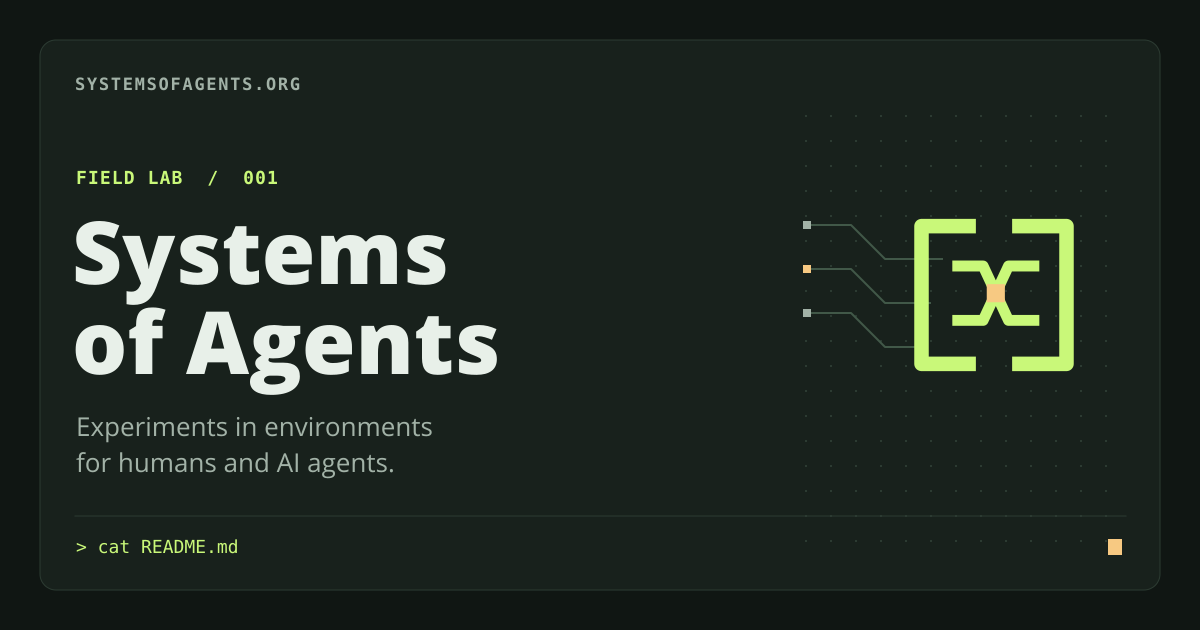
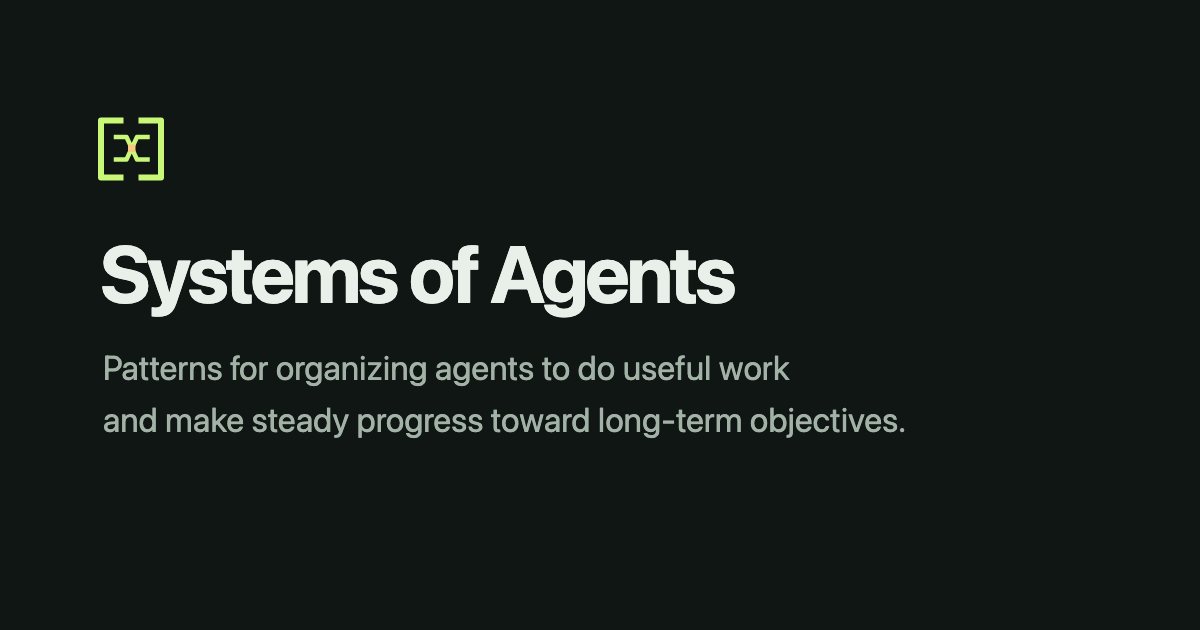
Simplify the Systems of Agents landing page

diff --git a/templates/home.html b/templates/home.html
@@ -1,30 +1,29 @@
 <!doctype html>
 <html lang="en"><head><meta charset="utf-8"><meta name="viewport" content="width=device-width,initial-scale=1">
 <title>Systems of Agents</title>
-<meta name="description" content="Systems of Agents maps out how to build systems in which humans and agents work together to accomplish increasingly complex tasks.">
-<meta name="theme-color" content="#101613"><link rel="canonical" href="https://systemsofagents.org/"><link rel="icon" type="image/svg+xml" href="/favicon.svg"><link rel="stylesheet" href="/terminal.css"><script defer src="/terminal.js"></script>
+<meta name="description" content="An exploration of the patterns we can use to organize agents to do useful work and make steady progress toward long-term objectives.">
+<meta name="theme-color" content="#101613"><link rel="canonical" href="https://systemsofagents.org/"><link rel="icon" type="image/svg+xml" href="/favicon.svg"><link rel="stylesheet" href="/site.css">
 <meta property="og:type" content="website">
 <meta property="og:site_name" content="Systems of Agents">
 <meta property="og:title" content="Systems of Agents">
-<meta property="og:description" content="Systems of Agents maps out how to build systems in which humans and agents work together to accomplish increasingly complex tasks.">
+<meta property="og:description" content="An exploration of the patterns we can use to organize agents to do useful work and make steady progress toward long-term objectives.">
 <meta property="og:url" content="https://systemsofagents.org/">
-<meta property="og:image" content="https://systemsofagents.org/brand/social/og-home.png">
+<meta property="og:image" content="https://systemsofagents.org/brand/social/og-home.png?v=2">
 <meta property="og:image:width" content="1200">
 <meta property="og:image:height" content="630">
-<meta property="og:image:alt" content="Systems of Agents: a field lab for human–agent systems, with a bracketed handoff mark.">
+<meta property="og:image:alt" content="Systems of Agents and its Handoff mark.">
 <meta name="twitter:card" content="summary_large_image">
 <meta name="twitter:title" content="Systems of Agents">
-<meta name="twitter:description" content="Systems of Agents maps out how to build systems in which humans and agents work together to accomplish increasingly complex tasks.">
-<meta name="twitter:image" content="https://systemsofagents.org/brand/social/og-home.png">
-<meta name="twitter:image:alt" content="Systems of Agents: a field lab for human–agent systems, with a bracketed handoff mark.">
+<meta name="twitter:description" content="An exploration of the patterns we can use to organize agents to do useful work and make steady progress toward long-term objectives.">
+<meta name="twitter:image" content="https://systemsofagents.org/brand/social/og-home.png?v=2">
+<meta name="twitter:image:alt" content="Systems of Agents and its Handoff mark.">
 <link rel="apple-touch-icon" href="/brand/icons/icon-180.png">
 </head>
-<body data-view="home"><a class="skip" href="#main">Skip to main content</a><main id="main" class="shell">
-<header><p class="brand"><img width="20" height="20" src="/brand/logos/mark-dark.svg" alt="">SYSTEMS OF AGENTS</p><p class="path" aria-label="Current path"><span>~/</span></p></header>
-<h1 class="sr" tabindex="-1">Systems of Agents</h1>
-<div class="file-view"><p class="file-command"><span class="prompt" aria-hidden="true">$</span> <code>cat README.md</code></p><div class="markdown">%%MARKDOWN%%</div><template id="document-source">%%MARKDOWN_RAW%%</template></div>
-<form class="command" hidden><output id="command-output" class="output" aria-live="polite"></output><div class="promptline">
-<span class="prompt" aria-hidden="true">$</span><label for="command" class="sr">Terminal command</label>
-<input id="command" type="text" placeholder="Enter a command" autocomplete="off" autocapitalize="none" spellcheck="false" enterkeyhint="go" aria-describedby="command-hint">
-</div><p id="command-hint" class="hint">Type <button type="button"><kbd>help</kbd></button> for commands.</p></form>
-</main></body></html>
+<body>
+<main class="landing">
+  <img class="mark" src="/brand/logos/mark-dark.svg" width="64" height="64" alt="">
+  <h1>Systems of Agents</h1>
+  <div class="intro">%%MARKDOWN%%</div>
+</main>
+</body>
+</html>

diff --git a/templates/track.html b/templates/track.html
@@ -2,7 +2,7 @@
 <html lang="en"><head><meta charset="utf-8"><meta name="viewport" content="width=device-width,initial-scale=1">
 <title>Uncapped session | Systems of Agents</title>
 <meta name="description" content="How should a session keep working as its history grows?">
-<meta name="theme-color" content="#101613"><link rel="canonical" href="https://systemsofagents.org/tracks/01/"><link rel="icon" type="image/svg+xml" href="/favicon.svg"><link rel="stylesheet" href="/terminal.css"><script defer src="/terminal.js"></script>
+<meta name="theme-color" content="#101613"><link rel="canonical" href="https://systemsofagents.org/tracks/01/"><link rel="icon" type="image/svg+xml" href="/favicon.svg"><link rel="stylesheet" href="/site.css">
 <meta property="og:type" content="website">
 <meta property="og:site_name" content="Systems of Agents">
 <meta property="og:title" content="Uncapped session | Systems of Agents">
@@ -19,14 +19,12 @@
 <meta name="twitter:image:alt" content="Track 01: Uncapped session.">
 <link rel="apple-touch-icon" href="/brand/icons/icon-180.png">
 </head>
-<body data-view="track"><a class="skip" href="#main">Skip to main content</a><main id="main" class="shell">
-<header><p class="brand"><img width="20" height="20" src="/brand/logos/mark-dark.svg" alt="">SYSTEMS OF AGENTS</p><p class="path" aria-label="Current path"><span>~/</span>tracks/01</p></header>
-<h1><span class="id">01</span> Uncapped session</h1>
-<div class="file-view"><p class="file-command"><span class="prompt" aria-hidden="true">$</span> <code>cat README.md</code></p><div class="markdown">%%MARKDOWN%%</div><template id="document-source">%%MARKDOWN_RAW%%</template></div>
-%%EXPERIMENTS%%
-<nav aria-label="Explore"><a class="row" href="/"><span class="marker" aria-hidden="true">‹</span> Back to Explore</a></nav>
-<form class="command" hidden><output id="command-output" class="output" aria-live="polite"></output><div class="promptline">
-<span class="prompt" aria-hidden="true">$</span><label for="command" class="sr">Terminal command</label>
-<input id="command" type="text" placeholder="Enter a command" autocomplete="off" autocapitalize="none" spellcheck="false" enterkeyhint="go" aria-describedby="command-hint">
-</div><p id="command-hint" class="hint">Type <button type="button"><kbd>help</kbd></button> for commands.</p></form>
-</main></body></html>
+<body>
+<main class="article">
+  <a class="back" href="/">Systems of Agents</a>
+  <h1>Uncapped session</h1>
+  <div class="markdown">%%MARKDOWN%%</div>
+  %%EXPERIMENTS%%
+</main>
+</body>
+</html>

diff --git a/brand/web/share-metadata.html b/brand/web/share-metadata.html
@@ -1,23 +1,23 @@
 <!-- Homepage example; ensure these asset URLs match the deployed files. -->
 <title>Systems of Agents</title>
-<meta name="description" content="Experiments in environments for humans and AI agents.">
+<meta name="description" content="An exploration of the patterns we can use to organize agents to do useful work and make steady progress toward long-term objectives.">
 <meta name="theme-color" content="#101613">
 <link rel="canonical" href="https://systemsofagents.org/">
-<link rel="icon" href="/brand/icons/favicon.svg" type="image/svg+xml">
+<link rel="icon" href="/favicon.svg" type="image/svg+xml">
 <link rel="apple-touch-icon" href="/brand/icons/icon-180.png">
 <meta property="og:type" content="website">
 <meta property="og:site_name" content="Systems of Agents">
 <meta property="og:url" content="https://systemsofagents.org/">
 <meta property="og:title" content="Systems of Agents">
-<meta property="og:description" content="Experiments in environments for humans and AI agents.">
-<meta property="og:image" content="https://systemsofagents.org/brand/social/og-home.png">
+<meta property="og:description" content="An exploration of the patterns we can use to organize agents to do useful work and make steady progress toward long-term objectives.">
+<meta property="og:image" content="https://systemsofagents.org/brand/social/og-home.png?v=2">
 <meta property="og:image:type" content="image/png">
 <meta property="og:image:width" content="1200">
 <meta property="og:image:height" content="630">
-<meta property="og:image:alt" content="Systems of Agents: a field lab, with a bracketed handoff mark.">
+<meta property="og:image:alt" content="Systems of Agents and its Handoff mark.">
 <meta name="twitter:card" content="summary_large_image">
 <meta name="twitter:title" content="Systems of Agents">
-<meta name="twitter:description" content="Experiments in environments for humans and AI agents.">
-<meta name="twitter:image" content="https://systemsofagents.org/brand/social/og-home.png">
-<meta name="twitter:image:alt" content="Systems of Agents: a field lab, with a bracketed handoff mark.">
+<meta name="twitter:description" content="An exploration of the patterns we can use to organize agents to do useful work and make steady progress toward long-term objectives.">
+<meta name="twitter:image" content="https://systemsofagents.org/brand/social/og-home.png?v=2">
+<meta name="twitter:image:alt" content="Systems of Agents and its Handoff mark.">
 <!-- Track 01: change URLs/title/description and use og-track-01.png. -->

diff --git a/templates/experiment.html b/templates/experiment.html
@@ -2,7 +2,7 @@
 <html lang="en"><head><meta charset="utf-8"><meta name="viewport" content="width=device-width,initial-scale=1">
 <title>%%TITLE%% | Systems of Agents</title>
 <meta name="description" content="Experiment note from Systems of Agents.">
-<meta name="theme-color" content="#101613"><link rel="canonical" href="https://systemsofagents.org/tracks/01/%%SLUG%%/"><link rel="icon" type="image/svg+xml" href="/favicon.svg"><link rel="stylesheet" href="/terminal.css"><script defer src="/terminal.js"></script>
+<meta name="theme-color" content="#101613"><link rel="canonical" href="https://systemsofagents.org/tracks/01/%%SLUG%%/"><link rel="icon" type="image/svg+xml" href="/favicon.svg"><link rel="stylesheet" href="/site.css">
 <meta property="og:type" content="website">
 <meta property="og:site_name" content="Systems of Agents">
 <meta property="og:title" content="%%TITLE%% | Systems of Agents">
@@ -19,14 +19,11 @@
 <meta name="twitter:image:alt" content="Track 01: Uncapped session.">
 <link rel="apple-touch-icon" href="/brand/icons/icon-180.png">
 </head>
-<body data-view="experiment"><a class="skip" href="#main">Skip to main content</a><main id="main" class="shell">
-<header><p class="brand"><img width="20" height="20" src="/brand/logos/mark-dark.svg" alt="">SYSTEMS OF AGENTS</p><p class="path" aria-label="Current path"><span>~/</span>tracks/01/%%SLUG%%</p></header>
-<h1>%%TITLE%%</h1>
-<div class="file-view"><p class="file-command"><span class="prompt" aria-hidden="true">$</span> <code>cat %%SLUG%%.md</code></p><div class="markdown">%%MARKDOWN%%</div><template id="document-source">%%MARKDOWN_RAW%%</template></div>
-
-<nav aria-label="Explore"><a class="row" href="/tracks/01/"><span class="marker" aria-hidden="true">‹</span> Back to Track 01</a></nav>
-<form class="command" hidden><output id="command-output" class="output" aria-live="polite"></output><div class="promptline">
-<span class="prompt" aria-hidden="true">$</span><label for="command" class="sr">Terminal command</label>
-<input id="command" type="text" placeholder="Enter a command" autocomplete="off" autocapitalize="none" spellcheck="false" enterkeyhint="go" aria-describedby="command-hint">
-</div><p id="command-hint" class="hint">Type <button type="button"><kbd>help</kbd></button> for commands.</p></form>
-</main></body></html>
+<body>
+<main class="article">
+  <a class="back" href="/tracks/01/">Uncapped session</a>
+  <h1>%%TITLE%%</h1>
+  <div class="markdown">%%MARKDOWN%%</div>
+</main>
+</body>
+</html>

diff --git a/static/site.css b/static/site.css
@@ -1,0 +1,44 @@
+:root {
+  color-scheme: dark;
+  background: #101613;
+  color: #E8F0E9;
+  font-family: "Open Sans", system-ui, sans-serif;
+}
+body { margin: 0; }
+main {
+  width: min(42rem, calc(100% - 3rem));
+  margin-inline: auto;
+  box-sizing: border-box;
+}
+.landing {
+  min-height: 100svh;
+  display: flex;
+  flex-direction: column;
+  justify-content: center;
+  align-items: flex-start;
+  padding-block: 3rem 4rem;
+}
+.mark { display: block; margin: 0 0 1.5rem -0.55rem; }
+h1 {
+  margin: 0;
+  font-size: clamp(2.25rem, 7vw, 4.25rem);
+  font-weight: 700;
+  line-height: 1.07;
+  letter-spacing: -.045em;
+  text-wrap: balance;
+}
+p, li { line-height: 1.65; }
+.intro p { margin: 1.25rem 0 0; }
+.intro p:first-child {
+  color: #A2B2A7;
+  max-width: 34rem;
+  font-size: clamp(1.125rem, 2.4vw, 1.35rem);
+}
+.intro p + p { margin-top: 1.75rem; }
+a { color: #C9F879; text-underline-offset: .22em; }
+a:hover { color: #E8F0E9; }
+a:focus-visible { outline: 2px solid #F7C982; outline-offset: 4px; }
+.intro a { display: inline-flex; align-items: center; min-height: 44px; font-weight: 650; }
+.article { padding-block: 3rem 5rem; }
+.article h1 { margin-block: 1.5rem; }
+.article pre { overflow-x: auto; padding: 1rem; background: #18211C; }

diff --git a/build.py b/build.py
@@ -1,6 +1,6 @@
 from html import escape
 from pathlib import Path
-import re, json, shutil
+import re, shutil
 from urllib.parse import urlsplit
 
 ROOT=Path(__file__).resolve().parent
@@ -55,7 +55,7 @@ def markdown(source):
 def render(template, dest, md, values):
     source=md.read_text(encoding='utf-8')
     html=(ROOT/'templates'/template).read_text(encoding='utf-8')
-    replacements={'MARKDOWN':markdown(source),'MARKDOWN_RAW':escape(source), **values}
+    replacements={'MARKDOWN':markdown(source), **values}
     for key,value in replacements.items(): html=html.replace('%%'+key+'%%',value)
     if re.search(r'%%[A-Z_]+%%',html): raise ValueError('Unfilled template')
     dest.parent.mkdir(parents=True,exist_ok=True); dest.write_text(html,encoding='utf-8')
@@ -63,13 +63,13 @@ def render(template, dest, md, values):
 
 def main():
     ASSETS.mkdir(exist_ok=True)
-    for file in ('terminal.css','terminal.js','favicon.svg'):
+    for file in ('site.css','favicon.svg'):
         shutil.copyfile(ROOT/'static'/file, ASSETS/file)
     for file in ("logos/mark-dark.svg","icons/icon-180.png","social/og-home.png","social/og-track-01.png"):
         target=ASSETS/"brand"/file
         target.parent.mkdir(parents=True,exist_ok=True)
         shutil.copyfile(ROOT/"brand"/file,target)
-    docs=[]; pages={}
+    docs=[]
     track=SOURCE/'tracks'/'01'
     for md in sorted(track.glob('*.md')):
         if md.name=='README.md': continue
@@ -80,36 +80,8 @@ def main():
         slug=md.stem
         docs.append(f'<li><a href="/tracks/01/{slug}/">{escape(title[2:])}</a></li>')
         target=ASSETS/'tracks'/'01'/slug/'index.html'
-        pages['/tracks/01/'+md.name]=(target, '/tracks/01/'+slug+'/', render('experiment.html',target,md,{'TITLE':escape(title[2:]),'SLUG':slug}))
-    pages['/README.md']=(ASSETS/'index.html','/',render('home.html',ASSETS/'index.html',SOURCE/'README.md',{}))
-    target=ASSETS/'tracks'/'01'/'index.html'
-    pages['/tracks/01/README.md']=(target,'/tracks/01/',render('track.html',target,track/'README.md',{'EXPERIMENTS':'<ul aria-label="Experiments">'+''.join(docs)+'</ul>' if docs else ''}) )
-    assemble(pages)
-
-def assemble(pages):
-    from html import unescape
-    from posixpath import dirname, normpath
-    fs={}; shells={}
-    for key,(target,url,html) in pages.items():
-        before,split=re.split(r'</header>',html,maxsplit=1)
-        contents,after=split.split('<form class="command"',1)
-        def replace_link(match):
-            href=unescape(match[1])
-            root_path=normpath(href if href.startswith('/') else dirname(key)+'/'+href) if href.lower().endswith('.md') and not urlsplit(href).scheme else None
-            chosen=root_path if root_path in pages else next((k for k,rec in pages.items() if rec[1]==href),None)
-            return f'href="{pages[chosen][1]}" data-file="{chosen}"' if chosen else match[0]
-        contents=re.sub(r'href="([^"]*)"',replace_link,contents)
-        contents=re.sub(r'(<h1)(>)',r'\1 tabindex="-1"\2',contents)
-        contents=re.sub(r'<template id="document-source">.*?</template>','',contents,flags=re.S)
-        title=unescape(re.search(r'<title>(.*?)</title>',html)[1])
-        fs[key]={'url':url,'html':contents,'title':title}
-        shells[key]=(target,before,after)
-    payload=json.dumps(fs,ensure_ascii=False,separators=(',',':')).replace('<','\\u003c')
-    for key,(target,before,after) in shells.items():
-        echo="README.md" if key=="/README.md" else key
-        content=re.sub(r'<code>cat [^<]*</code>',lambda m:'<code>cat '+escape(echo)+'</code>',fs[key]['html'],count=1)
-        html=before+'</header>\n<div id="screen">'+content+'</div>\n<form class="command"'+after
-        html=html.replace('</body>','<script id="virtual-files" type="application/json">'+payload+'</script></body>')
-        target.write_text(html,encoding='utf-8')
+        render('experiment.html',target,md,{'TITLE':escape(title[2:]),'SLUG':slug})
+    render('home.html',ASSETS/'index.html',SOURCE/'README.md',{})
+    render('track.html',ASSETS/'tracks'/'01'/'index.html',track/'README.md',{'EXPERIMENTS':'<ul aria-label="Experiments">'+''.join(docs)+'</ul>' if docs else ''})
 
 if __name__=='__main__': main()

diff --git a/brand/README.md b/brand/README.md
@@ -7,13 +7,10 @@ are the participants; the amber square is the handoff. The mark belongs to the
 system, not to a single agent. It should feel like a small notation from a
 technical manual, not a chatbot mascot.
 
-**Positioning:** A field lab for human–agent systems. Experiments and simulations
-come first; the book grows out of what survives testing.
+**Positioning:** An exploration of the patterns we can use to organize agents to do useful work and make steady progress toward long-term objectives.
 
 **Voice:** Short and specific. Say what the system did, what the environment
-allowed, and what the experiment actually established. Reserve system labels
-and terminal commands for real navigation. Avoid fake logs, CRT effects, and
-AI imagery that competes with the work.
+allowed, and what the experiment actually established. Keep public pages simple. Avoid shell chrome, fake logs, CRT effects, and AI imagery that competes with the work.
 
 ## Identity
 

diff --git a/README.md b/README.md
@@ -4,7 +4,7 @@ Source for https://systemsofagents.org/. Published experiment code and notes bel
 
 ## Development
 
-Run `python3 build.py`, then `python3 -m http.server 8000 --bind 127.0.0.1 --directory dist`. The site is static; its terminal reads only the Markdown embedded during the build.
+Run `python3 build.py`, then `python3 -m http.server 8000 --bind 127.0.0.1 --directory dist`. The site is static and uses no JavaScript. The homepage links to the experiments repository. Existing track URLs remain accessible as plain articles.
 
 - Edit website copy in `content/` and public design assets in `static/`.
 - To publish an approved experiment note in Track 01, add a Markdown file under `content/tracks/01/` named `NNN-short-title.md` with a first-line heading. Link to implementation details and source notes in the experiments repository as appropriate.

diff --git a/content/README.md b/content/README.md
@@ -1,5 +1,3 @@
-Systems of Agents is a series of experiments in how humans and agents can work together on increasingly complex tasks. The North Star is a personal agent that stays useful across sessions and keeps up as your world changes. The other test is whether a swarm can tackle a problem no single agent can solve reliably. We build in Pi, starting with long-lived sessions and shared workspaces, and publish the code and what we learn along the way.
+An exploration of the patterns we can use to organize agents to do useful work and make steady progress toward long-term objectives.
 
-[Personal agent thesis](https://x.com/andreisavu/status/2124605082373374164)
-
-[Experiments on GitHub](https://github.com/systemsofagents/experiments)
+[Explore the experiments on GitHub](https://github.com/systemsofagents/experiments)
